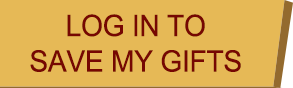
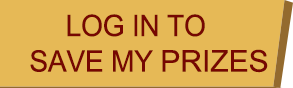
概率回调

Changed region(s): [[0.5222, 0.5455, 0.9215, 0.8182]]

diff --git a/src/MyPrizes.ts b/src/MyPrizes.ts
@@ -23,7 +23,7 @@ class MyPrizes extends eui.UILayer {
         var back = createBitmap("back_png");
 
         back.x = (this.stage.stageWidth - back.width) * 0.5;
-        back.y = this.stage.stageHeight * 0.8;
+        back.y = this.stage.stageHeight * 0.9;
         this.addChild(back);
 
         back.touchEnabled = true;
@@ -74,7 +74,7 @@ class MyPrizes extends eui.UILayer {
         ac_content.x = 200;
         ac_content.textColor = textColor;
         //ac_content.y = my_prize_info_bg.y + 366;
-        ac_content.y = my_prize_info_bg.y + 190;
+        ac_content.y = my_prize_info_bg.y + 390;
         myPrizeInfo_cnt.addChild(ac_content);
 
         // var rp_png = createBitmap("Red Packet Symbol_png");
@@ -97,15 +97,15 @@ class MyPrizes extends eui.UILayer {
 
 
 
-        // var dd_png = createBitmap("Dollar Symbol_png");
-        // var ad_text = "$" + MyPrizes.currentAd + mc_content.ad_content;
-        // var ad_content = createTextFiledNoEui(ad_text);
-        // ad_content.bold = true;
-        // ad_content.size = textSize;
-        // ad_content.x = 200;
-        // ad_content.textColor = textColor;
-        // ad_content.y = my_prize_info_bg.y + 190;
-        // myPrizeInfo_cnt.addChild(ad_content);
+        var dd_png = createBitmap("Dollar Symbol_png");
+        var ad_text = "$" + MyPrizes.currentAd + mc_content.ad_content;
+        var ad_content = createTextFiledNoEui(ad_text);
+        ad_content.bold = true;
+        ad_content.size = textSize;
+        ad_content.x = 200;
+        ad_content.textColor = textColor;
+        ad_content.y = my_prize_info_bg.y + 190;
+        myPrizeInfo_cnt.addChild(ad_content);
 
 
 
@@ -119,17 +119,17 @@ class MyPrizes extends eui.UILayer {
         var _scale = 1.5;
 
         
-        // dd_png.scaleX = _scale;
-        // dd_png.scaleY = _scale;
-        // dd_png.x = 150 - dd_png.width;
-        // dd_png.y =  my_prize_info_bg.y + 165;
+        dd_png.scaleX = _scale;
+        dd_png.scaleY = _scale;
+        dd_png.x = 150 - dd_png.width;
+        dd_png.y =  my_prize_info_bg.y + 165;
 
 
         coins_png.scaleX = _scale;
         coins_png.scaleY = _scale;
         coins_png.x = 150 - coins_png.width;
         //coins_png.y = my_prize_info_bg.y + 350;
-        coins_png.y = my_prize_info_bg.y + 165;
+        coins_png.y = my_prize_info_bg.y + 365;
 
         // rp_png.scaleX = _scale + 0.2;
         // rp_png.scaleY = _scale + 0.2;
@@ -138,7 +138,7 @@ class MyPrizes extends eui.UILayer {
 
 
         myPrizeInfo_cnt.addChild(coins_png);
-        // myPrizeInfo_cnt.addChild(dd_png);
+        myPrizeInfo_cnt.addChild(dd_png);
         // myPrizeInfo_cnt.addChild(rp_png);
 
         var tipsContent = createTextFiledNoEui(mc_content.RedeemTime);
@@ -168,7 +168,7 @@ class MyPrizes extends eui.UILayer {
     var back = createBitmap("How to redeem button_png");
 
     back.x = (this.stage.stageWidth - back.width) * 0.5;
-    back.y = this.stage.stageHeight * 0.73;
+    back.y = this.stage.stageHeight * 0.83;
     this.addChild(back);
 
     back.touchEnabled = true;

diff --git a/src/PrizeAndRules.ts b/src/PrizeAndRules.ts
@@ -87,7 +87,7 @@ class PrizeAndRules extends eui.UILayer {
             ac_content.x = 200;
             ac_content.textColor = textColor;
             //ac_content.y = (my_prize_info_bg.y + 336 + textSize*i)/multi;
-            ac_content.y = (my_prize_info_bg.y + 170 + textSize*i)/multi;
+            ac_content.y = (my_prize_info_bg.y + 360 + textSize*i)/multi;
             ac_content.y+= (i?1:0)*15;
             myPrizeInfo_cnt.addChild(ac_content);
         }
@@ -104,17 +104,17 @@ class PrizeAndRules extends eui.UILayer {
         // }
 
 
-        // var dd_png = createBitmap("Dollar Symbol_png");
+        var dd_png = createBitmap("Dollar Symbol_png");
          
-        // for(var i =0;i< Main.staticDDPrizeList.length ; i++){
-        //     var ad_content = createTextFiledNoEui(Main.staticDDPrizeList[i]);
-        //     ad_content.size = textSize;
-        //     ad_content.x = 200;
-        //     ad_content.textColor = textColor;
-        //     ad_content.y = (my_prize_info_bg.y + 170 + textSize*i)/multi;
-        //     ad_content.y+= (i?1:0)*15;
-        //     myPrizeInfo_cnt.addChild(ad_content);
-        // }
+        for(var i =0;i< Main.staticDDPrizeList.length ; i++){
+            var ad_content = createTextFiledNoEui(Main.staticDDPrizeList[i]);
+            ad_content.size = textSize;
+            ad_content.x = 200;
+            ad_content.textColor = textColor;
+            ad_content.y = (my_prize_info_bg.y + 170 + textSize*i)/multi;
+            ad_content.y+= (i?1:0)*15;
+            myPrizeInfo_cnt.addChild(ad_content);
+        }
 
 
 
@@ -126,17 +126,17 @@ class PrizeAndRules extends eui.UILayer {
         var _scale = 1.5;
 
         
-        // dd_png.scaleX = _scale;
-        // dd_png.scaleY = _scale;
-        // dd_png.x = 150 - dd_png.width;
-        // dd_png.y =  (my_prize_info_bg.y + 165)/multi;
+        dd_png.scaleX = _scale;
+        dd_png.scaleY = _scale;
+        dd_png.x = 150 - dd_png.width;
+        dd_png.y =  (my_prize_info_bg.y + 165)/multi;
 
 
         coins_png.scaleX = _scale;
         coins_png.scaleY = _scale;
         coins_png.x = 150 - coins_png.width;
         //coins_png.y = (my_prize_info_bg.y + 350)/multi;
-        coins_png.y = (my_prize_info_bg.y + 165)/multi;
+        coins_png.y = (my_prize_info_bg.y + 365)/multi;
 
         // rp_png.scaleX = _scale;
         // rp_png.scaleY = _scale;
@@ -145,7 +145,7 @@ class PrizeAndRules extends eui.UILayer {
 
 
         myPrizeInfo_cnt.addChild(coins_png);
-        // myPrizeInfo_cnt.addChild(dd_png);
+        myPrizeInfo_cnt.addChild(dd_png);
         // myPrizeInfo_cnt.addChild(rp_png);
         myPrizeInfo_cnt.addChild(ac_content);
         // myPrizeInfo_cnt.addChild(ae_content);
@@ -207,8 +207,8 @@ class PrizeAndRules extends eui.UILayer {
 
         var tc = createTextFiledNoEui(mc_content.terms1_LBox);
             tc.size = 32;
-            tc.x = 323;
-            tc.y = 1060;
+            tc.x = 308;
+            tc.y = 1071;
             tc.textColor = 0x851c1c;
             tc.bold = true;
 

diff --git a/src/MBSContent.ts b/src/MBSContent.ts
@@ -6,7 +6,7 @@ let mc_content={
     "OX":"OX COINS",
     "redPack":" RED PACKET",
     "ENVELOPES":"ENVELOPES",
-    "coinsCongTipsText1":"Collect 500 Virtual Ox coins to redeem a",
+    "coinsCongTipsText1":"Collect 88 Virtual Ox coins to redeem a",
     "coinsCongTipsText2":"Marina Bay Sands Capsule Machine Game.",
     "envCongTipsText1":"OF MARINA BAY SANDS",
     "envCongTipsText2":"LIMITED EDITION RED PACKET ENVELOPES",
@@ -15,10 +15,10 @@ let mc_content={
     "ac_content":" AUSPICIOUS OX\r\n COLLECTIBLE",
     "ad_content":" REWARD DOLLARS",
     "ae_content":" RED PACKET ENVELOP",
-    "MYPRIZE":"MY GIFTS",
-    "PRIZE":"GIFTS",
+    "MYPRIZE":"MY PRIZES",
+    "PRIZE":"PRIZES",
     "tipText1":"Login/Sign up to save",
-    "tipText2":"your scores & gifts!",
+    "tipText2":"your scores & prizes!",
     "MID":"Member ID:",
     "InputID":"Input ID",
     "LoginSuccess":"Login success",
@@ -26,7 +26,7 @@ let mc_content={
     "NetworkErr":"Network Error.\r\nPlease try Again Later.",
     "BinSuccess":"Binding and Login success.",
     "Binded":"Gifts have been bound by other member.",
-    "BindedBefore":"Your account have bound gifts before.",
+    "BindedBefore":"Your account have bound prizes before.",
     "Bindfail":"Binding failed.\r\nTry Again Later.",
     "terms1":"  ",
     "terms1_LBox":"here.",
@@ -46,7 +46,7 @@ let mc_content={
     "eText2":"REDPACKET",
     "eText3":"ENVELOPES",
     "eText":"LIMITED EDITION\r\nREDPACKET\nENVELOPES",
-    "RedeemTime":"Redeem a Fortune Ox Capsule collectible\r\n with every 500 Ox coins by 11 March 2021.",
+    "RedeemTime":"Redeem a Fortune Ox Capsule collectible\r\n with every 88 Ox coins by 11 March 2021.",
     "Play":"Please play the game",
     "TC":"Terms and Conditions.",
     "haveBinded":"You have played today.\r\nNo new score is recorded",

diff --git a/src/Main.ts b/src/Main.ts
@@ -40,8 +40,8 @@ class Main extends egret.DisplayObjectContainer {
     static registLoginShow = false;
     //http://150.109.32.241:4503/
     //"https://staging.marinabaysands.com"
-    // static  baseUrl = window.location.protocol +"//" +window.location.host;
-      static  baseUrl = "https://staging.marinabaysands.com";
+    static  baseUrl = window.location.protocol +"//" +window.location.host;
+    //   static  baseUrl = "https://staging.marinabaysands.com";
     private getProbabilityData = "/services/h5game/property";
     static patronRegisterUrl = "/services/members_card_register"
     static lotteryApi = "/services/h5game/lottery";

diff --git a/src/HowToRedeem.ts b/src/HowToRedeem.ts
@@ -34,12 +34,12 @@ class HowToRedeem extends eui.UILayer {
           p2.height = p2Height;
           p2.y = p1.y + p1.height + 30;
 
-          tips.y = p1.y + p1.height + 10;
+          tips.y = p2.y + p2.height + 10;
 
         //   prizeRulesBtn.y = tips.y + tips.height + 40;
           prizeRulesBtn.y = this.stage.stageHeight * 0.91
           this.addChild(p1);
-          //this.addChild(p2);
+          this.addChild(p2);
           this.addChild(tips);
           this.addChild(prizeRulesBtn);
 
